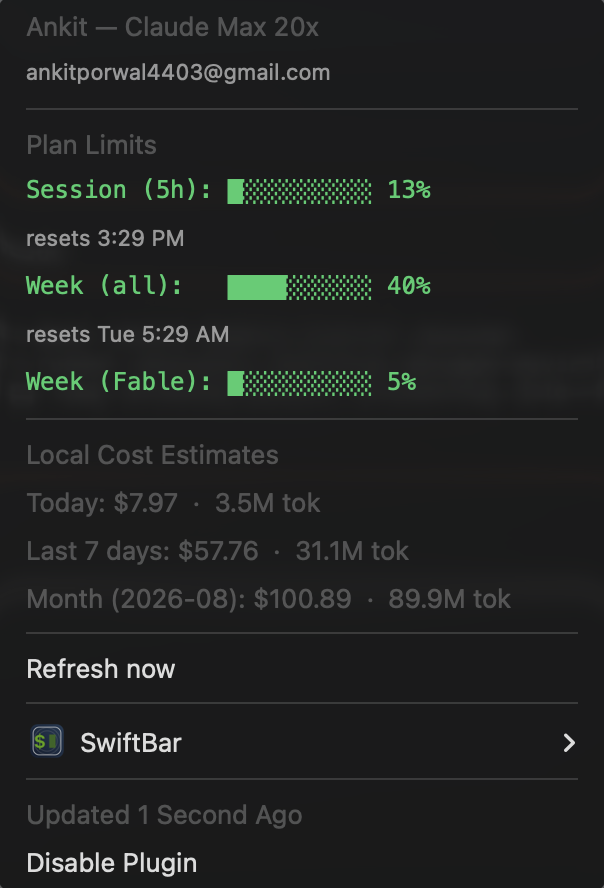
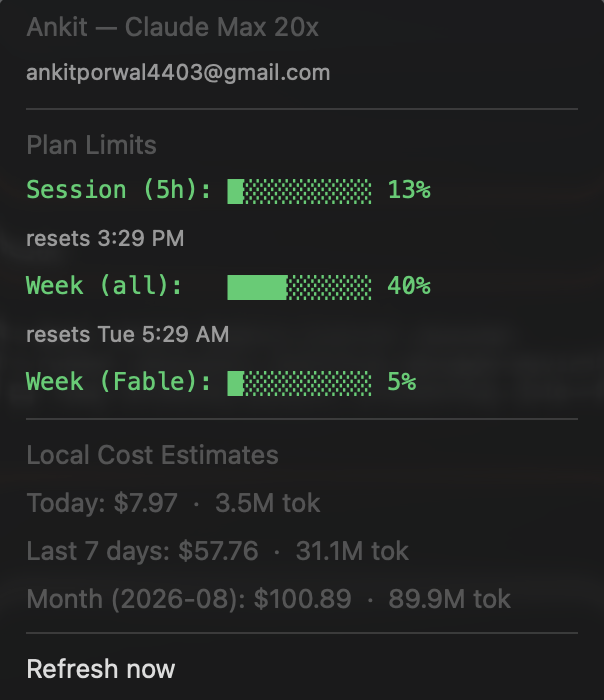
Crop screenshot and center it at fixed width in README

diff --git a/README.md b/README.md
@@ -6,7 +6,9 @@
 
 A SwiftBar plugin that shows your **real Claude Code plan usage** in the macOS menu bar — the same numbers as the `/usage` command inside Claude Code.
 
-![Screenshot](docs/screenshot.png)
+<p align="center">
+  <img src="docs/screenshot.png" width="380" alt="Claude Usage Tracker dropdown">
+</p>
 
 ## What it shows
 
